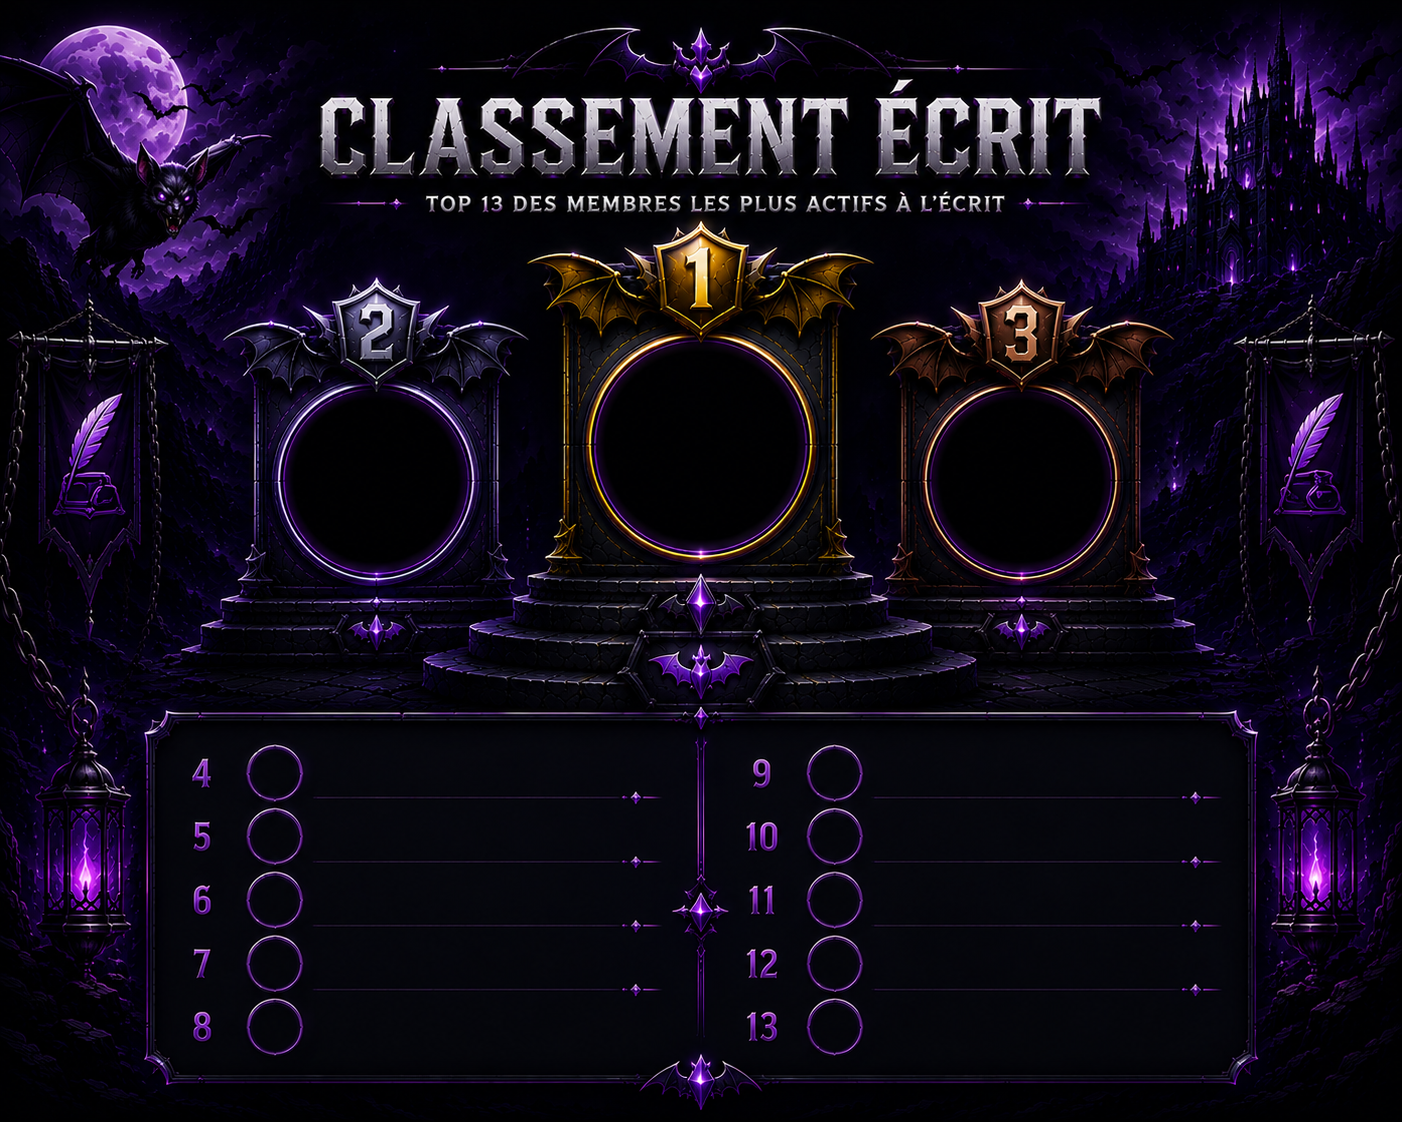
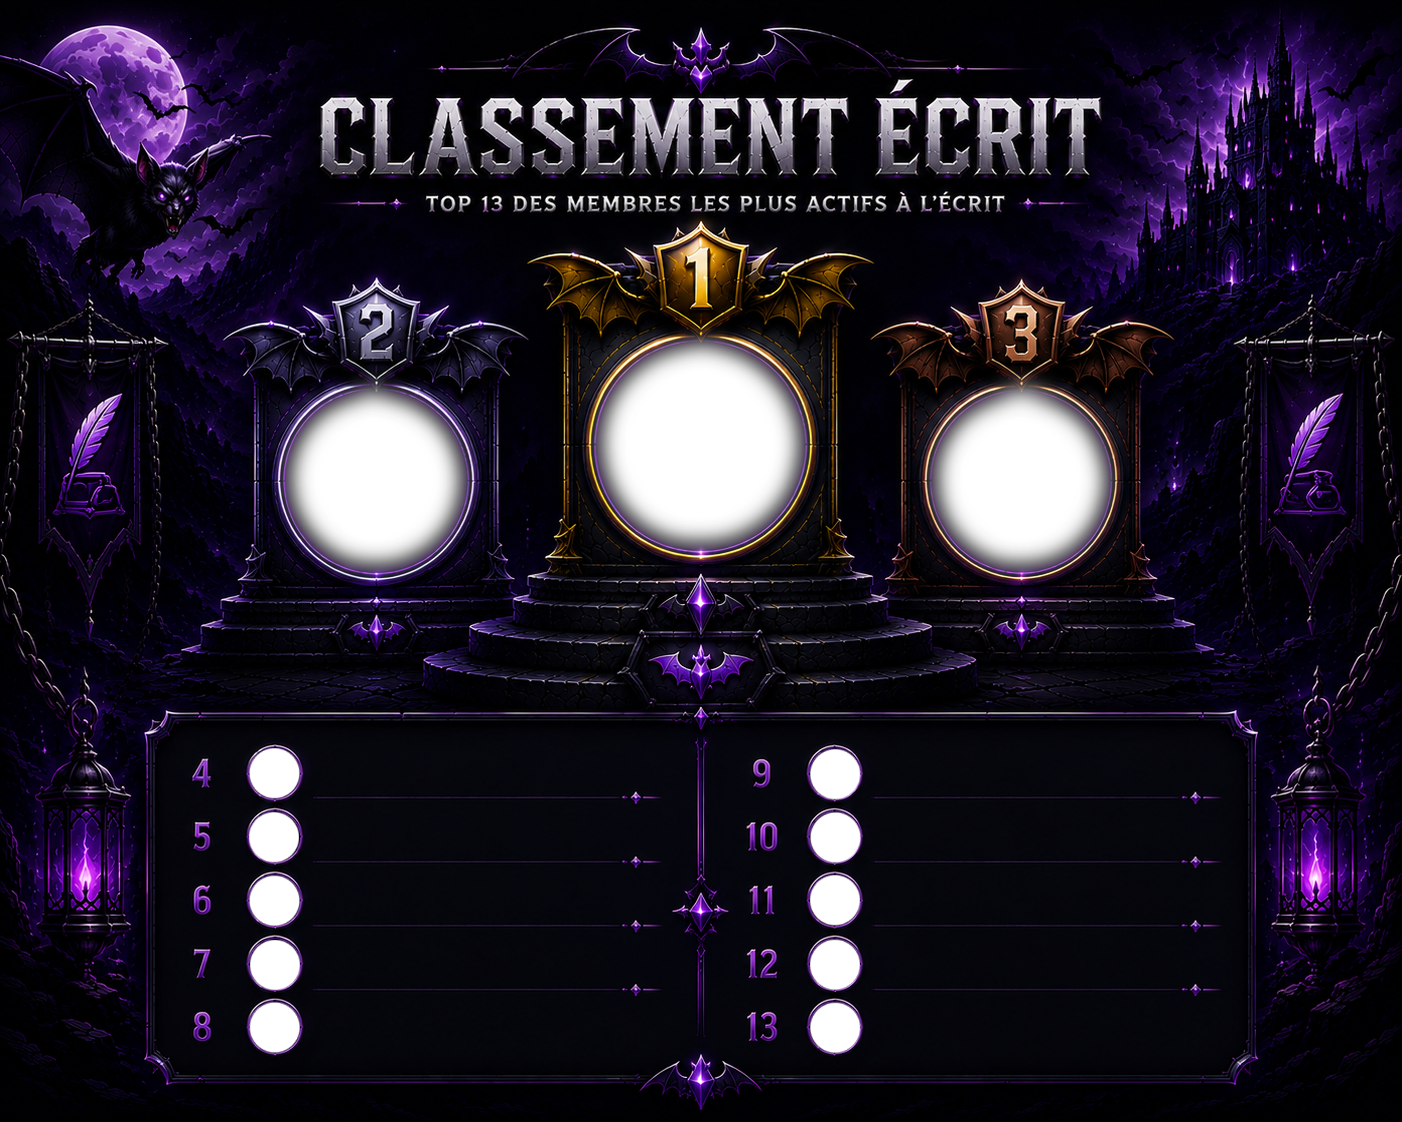
feat(progression): template ecrit transparent (RGBA) + positions exactes
topecrit.png passe en RGBA (trous aux cercles) -> avatars encastres comme le
general (detection auto). Podium + 10 lignes cales sur les trous alpha detectes
(le #1 etait 19px trop bas). row_ys 772/836/900/964/1026, avatar x=274/835.

diff --git a/sentinel-bot/src/modules/progression/leaderboard_render.rs b/sentinel-bot/src/modules/progression/leaderboard_render.rs
@@ -151,20 +151,20 @@ fn layout_for(cat: Category) -> Layout {
         Category::Ecrit => Layout {
             w: 1402.0,
             h: 1122.0,
-            // Centres/rayons mesures sur le template ecrit.
+            // Centres exacts detectes via les trous transparents (alpha=0).
             podium: [
-                Circle { cx: 700.0, cy: 463.0, r: 97.0 },  // #1 centre
-                Circle { cx: 375.0, cy: 475.0, r: 92.0 },  // #2 gauche
-                Circle { cx: 1020.0, cy: 480.0, r: 90.0 }, // #3 droite
+                Circle { cx: 700.0, cy: 444.0, r: 100.0 }, // #1 centre
+                Circle { cx: 374.0, cy: 478.0, r: 86.0 },  // #2 gauche
+                Circle { cx: 1022.0, cy: 476.0, r: 87.0 }, // #3 droite
             ],
-            // Y des lignes mesures sur le template ecrit.
-            row_ys: [802.0, 868.0, 931.0, 994.0, 1052.0],
-            row_avatar_r: 30.0,
-            l_avatar_x: 280.0,
-            l_name_x: 324.0,
+            // Y des lignes detectes sur les trous alpha.
+            row_ys: [772.0, 836.0, 900.0, 964.0, 1026.0],
+            row_avatar_r: 27.0,
+            l_avatar_x: 274.0,
+            l_name_x: 322.0,
             l_xp_x: 620.0,
-            r_avatar_x: 845.0,
-            r_name_x: 889.0,
+            r_avatar_x: 835.0,
+            r_name_x: 883.0,
             r_xp_x: 1200.0,
         },
         // topvocal.png — meme disposition supposee que le general (a confirmer
